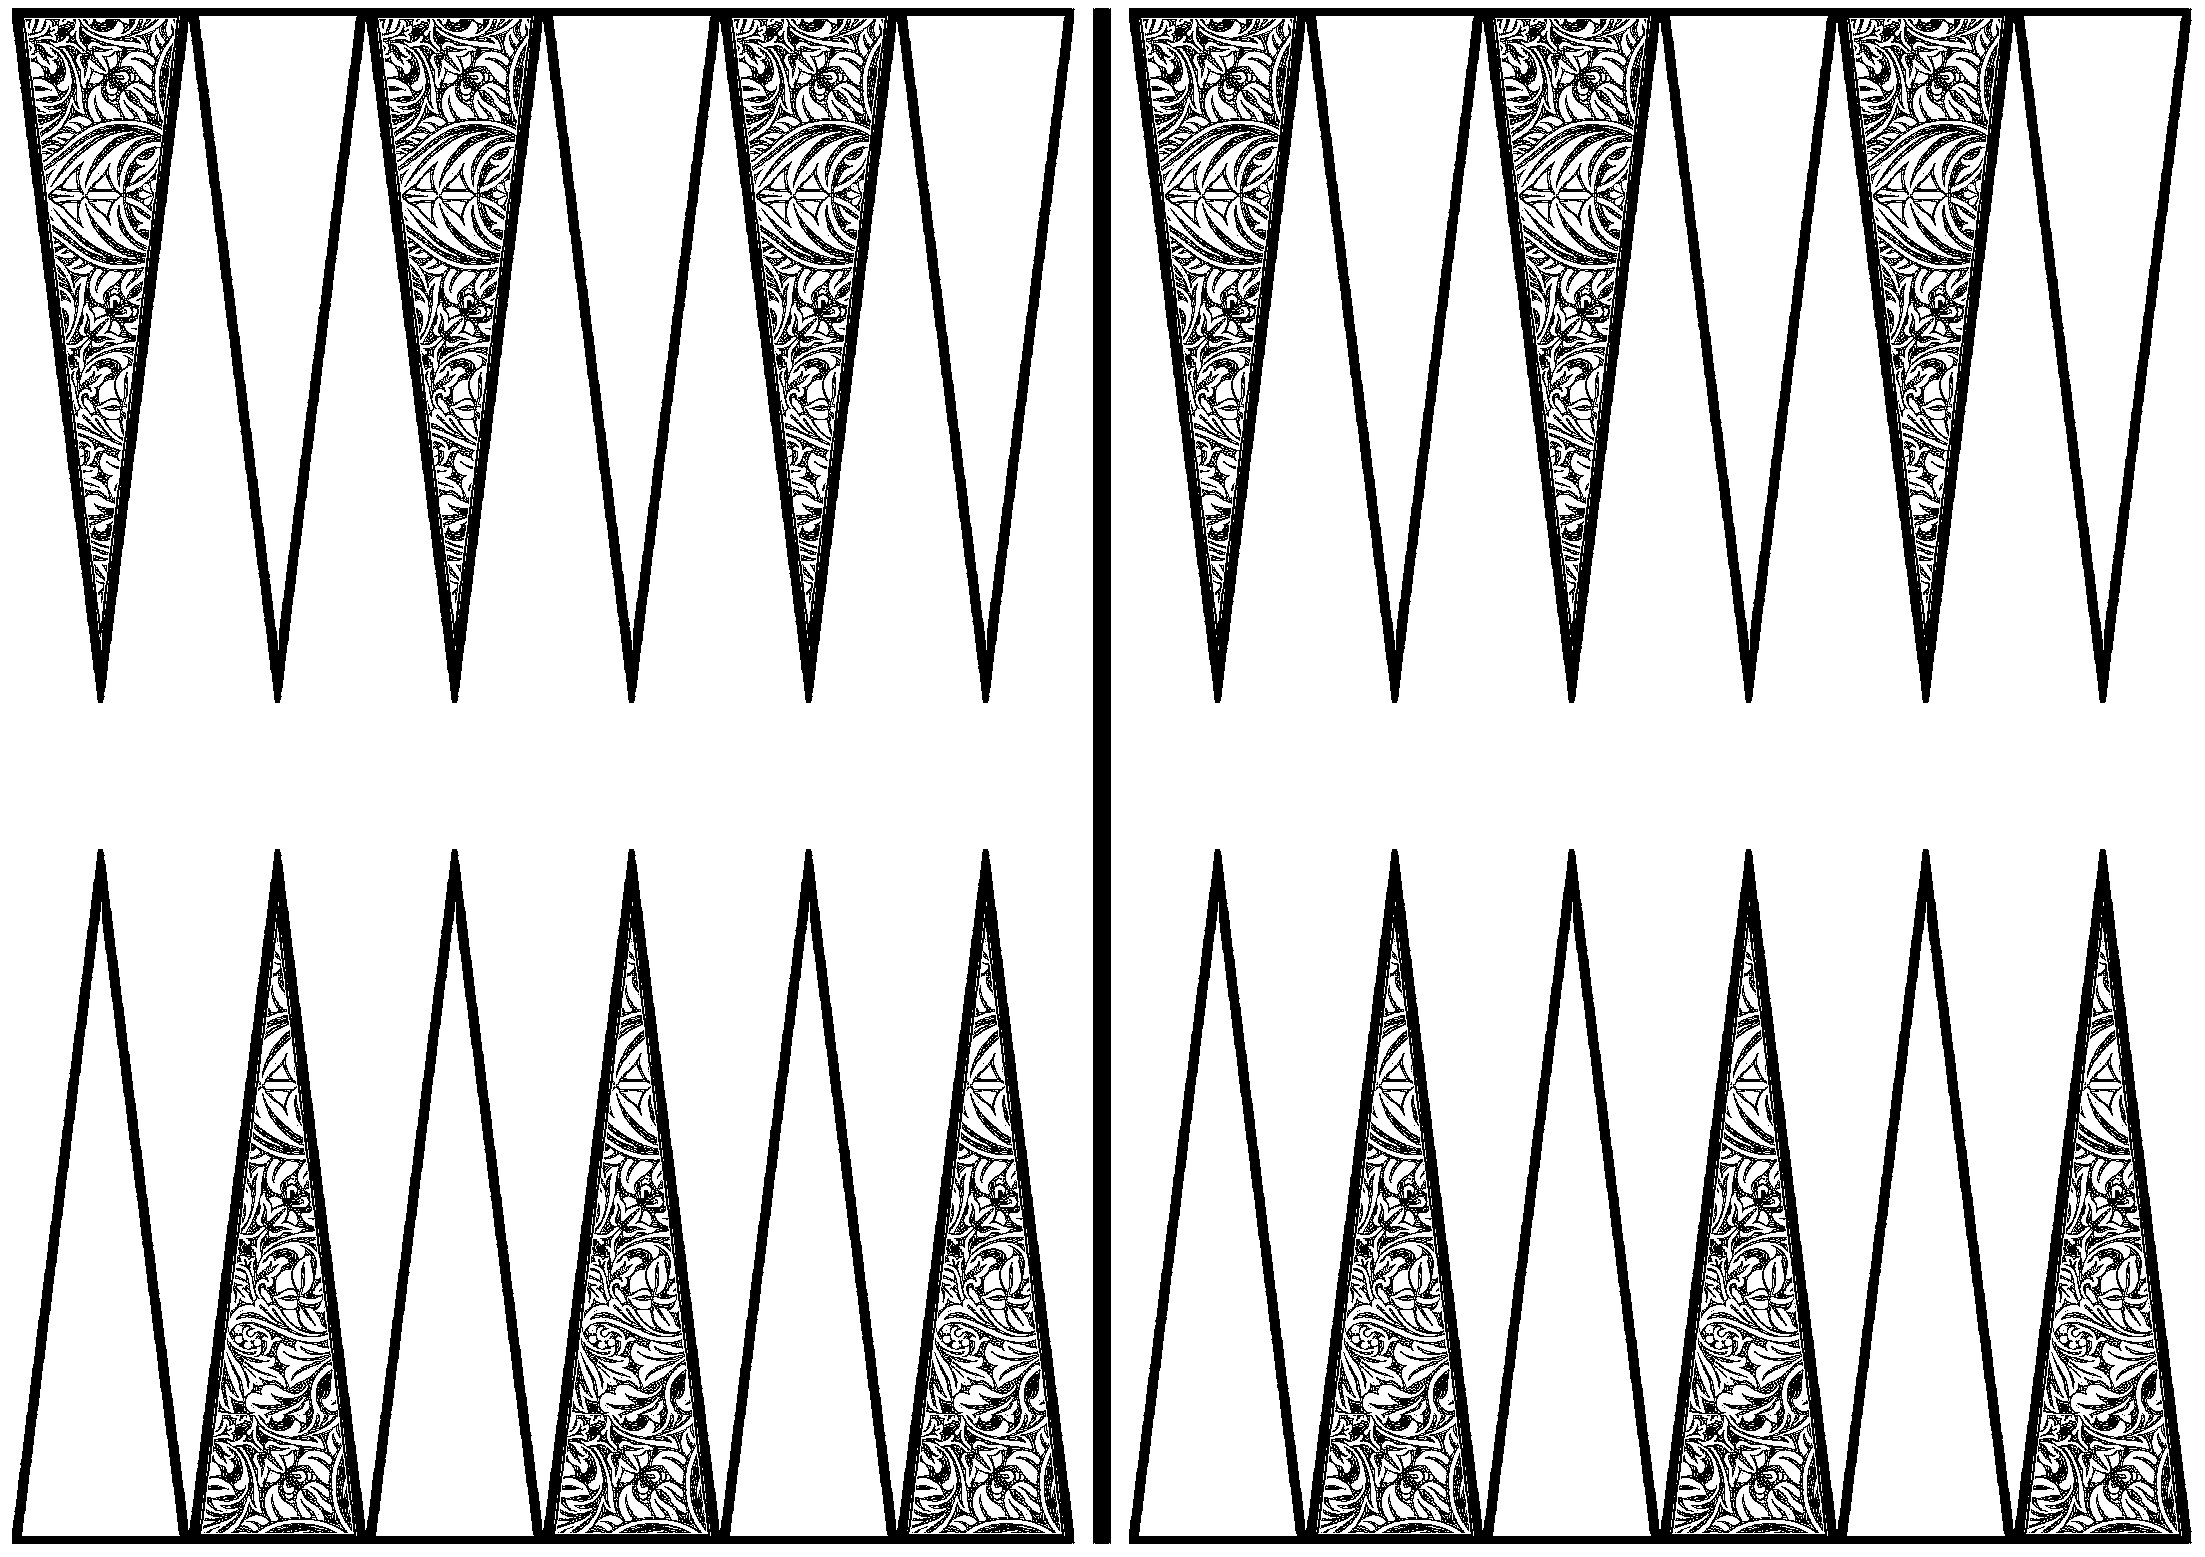
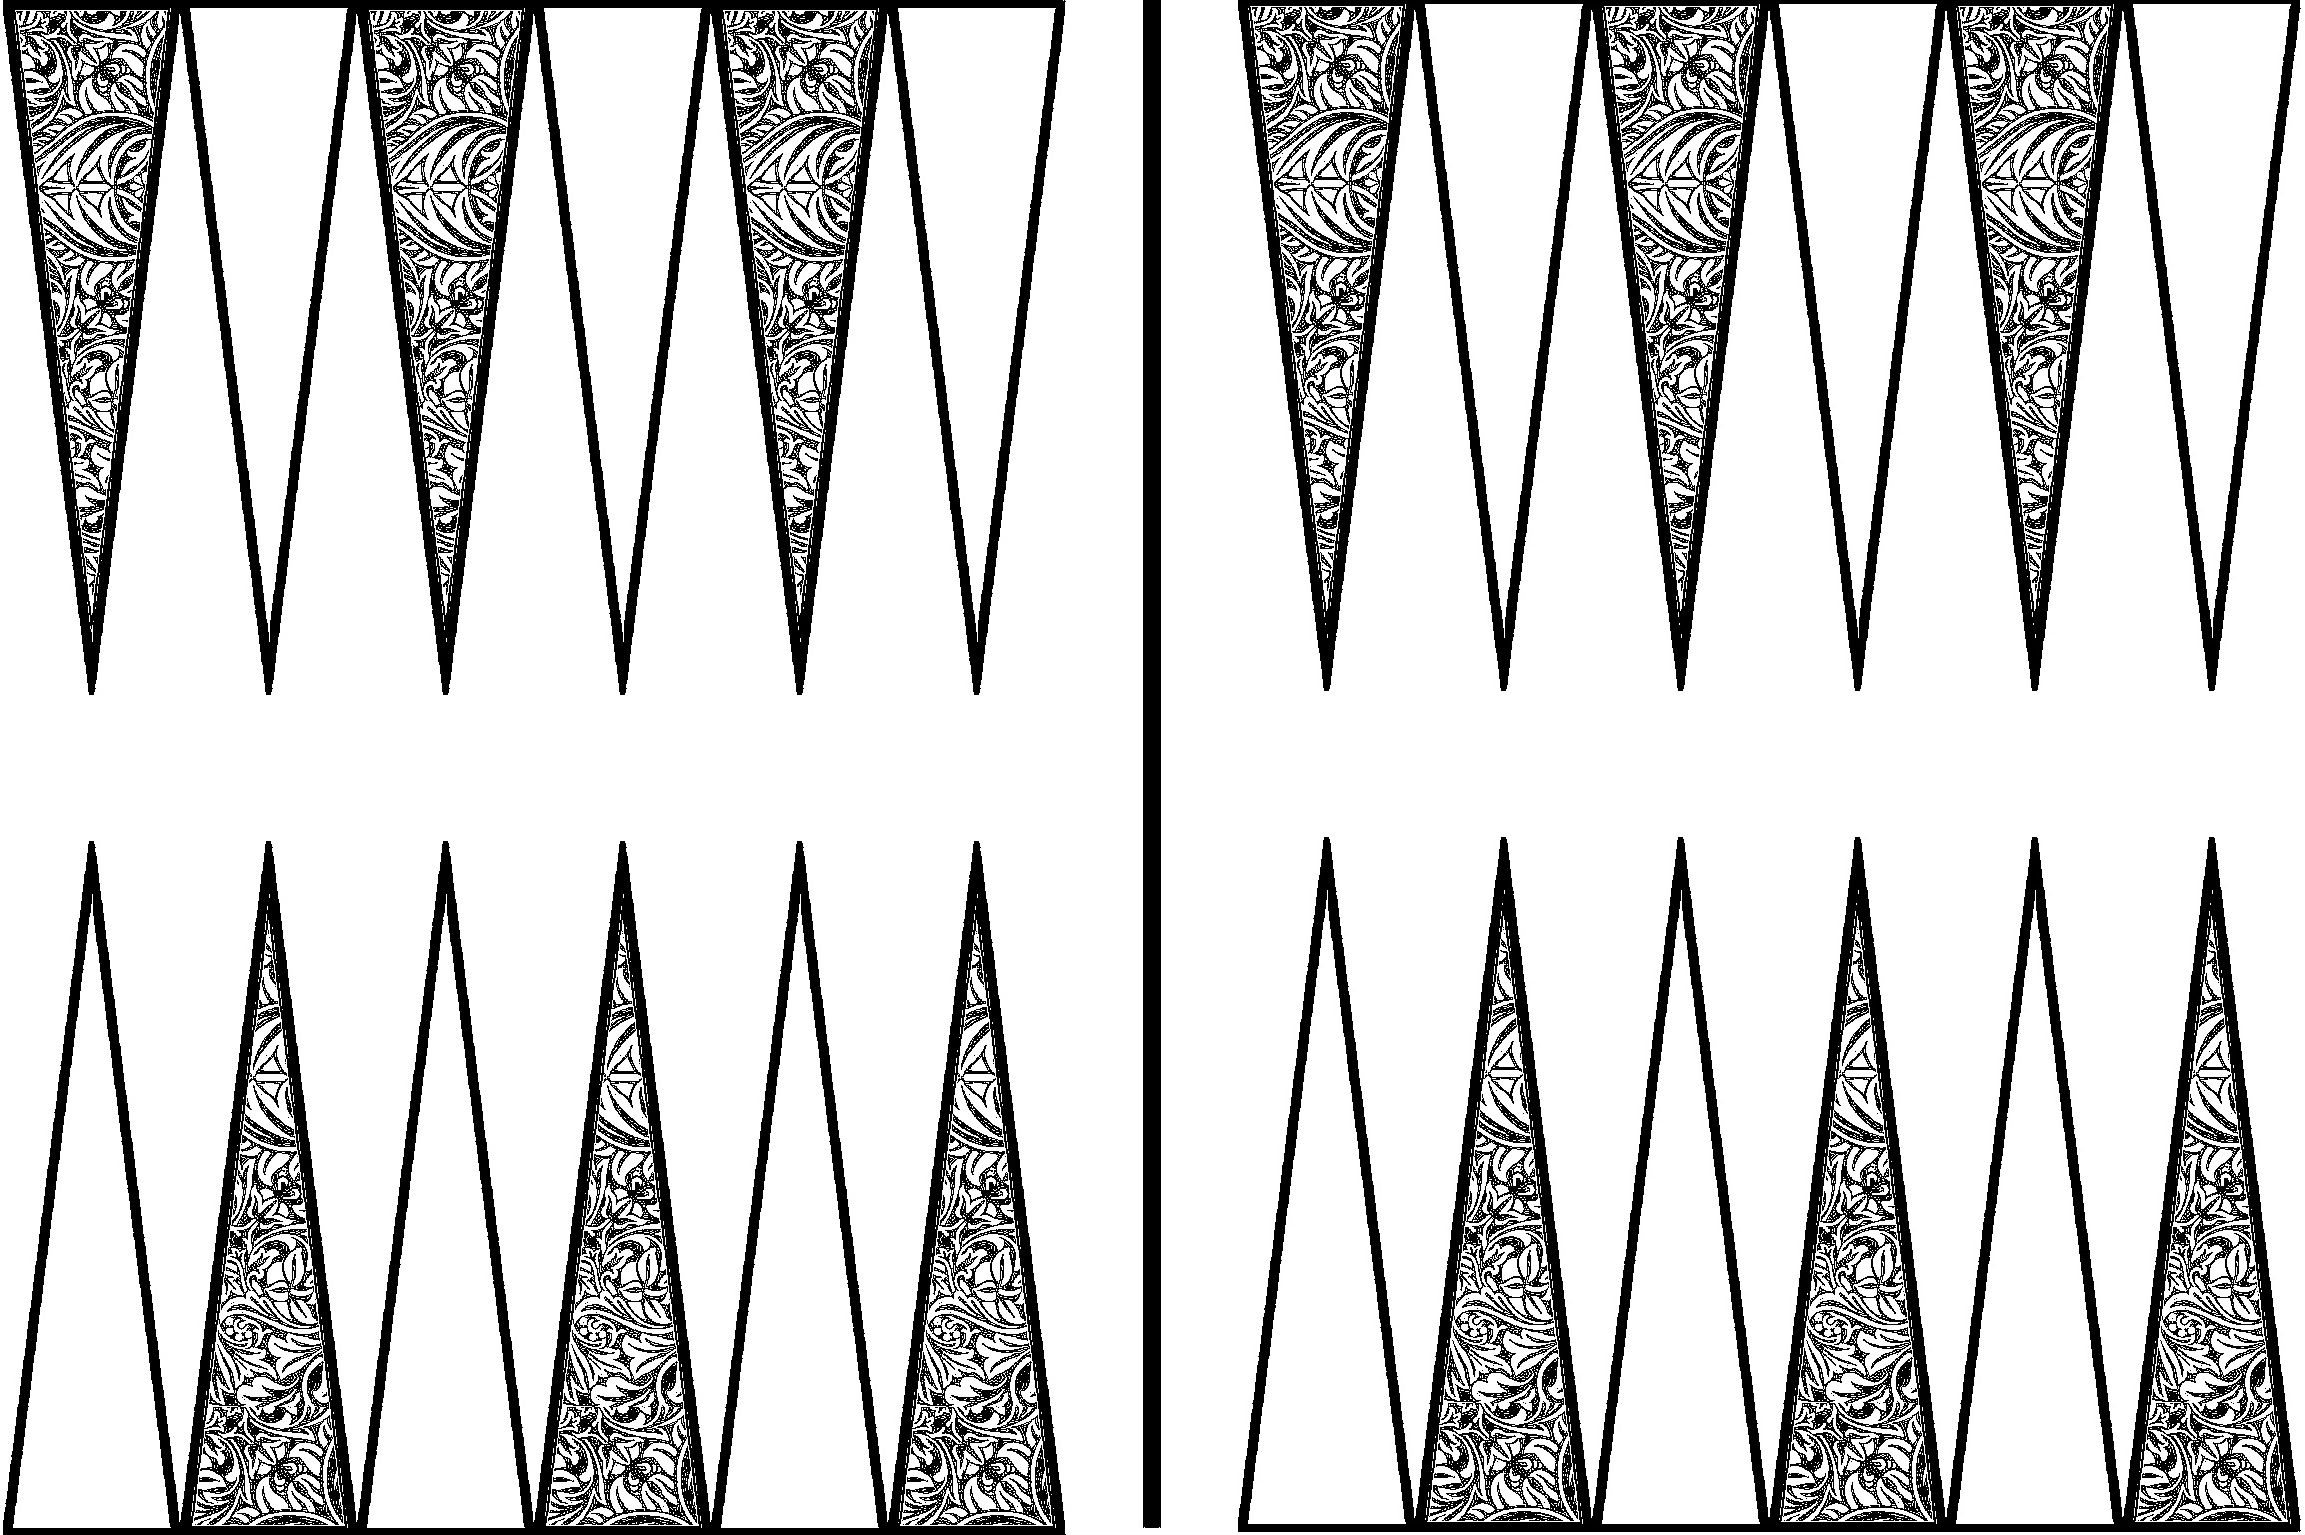
Added support in pieces stack

diff --git a/Chat.Client/Views/Screens/BackgammonScreen.xaml b/Chat.Client/Views/Screens/BackgammonScreen.xaml
@@ -15,8 +15,8 @@
             <RowDefinition Height="81*"/>
             <RowDefinition Height="40*"/>
             <RowDefinition Height="50*"/>
-            <RowDefinition Height="22*"/>
-            <RowDefinition Height="44*"/>
+            <RowDefinition Height="12*"/>
+            <RowDefinition Height="54*"/>
             <RowDefinition Height="79*"/>
             <RowDefinition Height="50*"/>
             <RowDefinition Height="117*"/>
@@ -24,37 +24,35 @@
             <RowDefinition Height="6*"/>
         </Grid.RowDefinitions>
         <Grid.ColumnDefinitions>
-            <ColumnDefinition Width="65*"/>
-            <ColumnDefinition Width="61*"/>
-            <ColumnDefinition Width="60*"/>
-            <ColumnDefinition Width="61*"/>
-            <ColumnDefinition Width="61*"/>
-            <ColumnDefinition Width="60*"/>
-            <ColumnDefinition Width="20*"/>
-            <ColumnDefinition Width="60*"/>
-            <ColumnDefinition Width="61*"/>
-            <ColumnDefinition Width="61*"/>
-            <ColumnDefinition Width="61*"/>
-            <ColumnDefinition Width="60*"/>
-            <ColumnDefinition Width="61*"/>
-            <ColumnDefinition Width="5*"/>
-            <ColumnDefinition Width="8*"/>
-            <ColumnDefinition Width="300*"/>
+            <ColumnDefinition Width="52*"/>
+            <ColumnDefinition Width="53*"/>
+            <ColumnDefinition Width="52*"/>
+            <ColumnDefinition Width="52*"/>
+            <ColumnDefinition Width="52*"/>
+            <ColumnDefinition Width="52*"/>
+            <ColumnDefinition Width="52*"/>
+            <ColumnDefinition Width="52*"/>
+            <ColumnDefinition Width="51*"/>
+            <ColumnDefinition Width="52*"/>
+            <ColumnDefinition Width="52*"/>
+            <ColumnDefinition Width="52*"/>
+            <ColumnDefinition Width="54*"/>
+            <ColumnDefinition Width="54*"/>
+            <ColumnDefinition Width="320*"/>
         </Grid.ColumnDefinitions>
-        <Image Source="/Images/Backgammon_board.jpg" Grid.Column="0" Stretch="Fill" Grid.ColumnSpan="14" Grid.RowSpan="14"/>
-        <Separator Grid.Column="14" Grid.Row="0" Style="{StaticResource {x:Static ToolBar.SeparatorStyleKey}}" Grid.RowSpan="14"/>
-        <TextBlock Text="{Binding PlayerA}" Grid.Column="15" Grid.Row="1" FontFamily="Buxton Sketch" HorizontalAlignment="Center" FontSize="30"/>
-        <TextBlock Text="Vs." Grid.Column="15" Grid.Row="2" FontFamily="Buxton Sketch" HorizontalAlignment="Center" FontSize="30" Margin="123,0"/>
-        <TextBlock Text="{Binding PlayerB}" Grid.Column="15" Grid.Row="3" FontFamily="Buxton Sketch" HorizontalAlignment="Center" FontSize="30"/>
-        <Button Content="Roll the dice" Grid.Column="15" Grid.Row="6" FontFamily="Buxton Sketch" HorizontalAlignment="Center" FontSize="30" Width="262" Margin="10,0.231,10,21.707" Grid.RowSpan="2" />
-        <TextBlock Text="Chat:" Grid.Column="15" Grid.Row="8" FontFamily="Buxton Sketch" HorizontalAlignment="Center" FontSize="30"/>
-        <ContentControl Name="chat_cc" Grid.Column="15" Grid.Row="9" Grid.RowSpan="7"/>
-        
-        <!--#region culomns-->
+        <Image Source="/Images/Backgammon_board.jpg" Grid.Column="0" Stretch="Fill" Grid.ColumnSpan="13" Grid.RowSpan="14" Margin="0,0,0,0.16"/>
+        <Separator Grid.Column="13" Grid.Row="0" Style="{StaticResource {x:Static ToolBar.SeparatorStyleKey}}" Grid.RowSpan="14" Margin="2,2,2,2.16"/>
+        <TextBlock Text="{Binding PlayerA}" Grid.Column="14" Grid.Row="1" FontFamily="Buxton Sketch" HorizontalAlignment="Center" FontSize="30" Margin="134,0" Width="34"/>
+        <TextBlock Text="Vs." Grid.Column="14" Grid.Row="2" FontFamily="Buxton Sketch" HorizontalAlignment="Center" FontSize="30" Margin="118,0,116,0" Width="34"/>
+        <TextBlock Text="{Binding PlayerB}" Grid.Column="14" Grid.Row="3" FontFamily="Buxton Sketch" HorizontalAlignment="Center" FontSize="30" Margin="134,0" Width="34"/>
+        <Button Content="Roll the dice" Grid.Column="14" Grid.Row="6" FontFamily="Buxton Sketch" HorizontalAlignment="Center" FontSize="30" Width="200" Margin="34,0.231,34,11.735" Grid.RowSpan="2" />
+        <TextBlock Text="Chat:" Grid.Column="14" Grid.Row="8" FontFamily="Buxton Sketch" HorizontalAlignment="Center" FontSize="30" Margin="106,0.265,106,78.51" Grid.RowSpan="2" Width="56" />
+        <ContentControl Name="chat_cc" Grid.Column="14" Grid.Row="9" Grid.RowSpan="5" Margin="0,0.265,0,0.16"/>
 
-        
-        
+        <!--#region Columns-->
 
-        <!--#endregion culomns-->
+        <ListView Grid.Column="12" Grid.Row="0" Grid.RowSpan="13" VerticalAlignment="Top" ItemsSource="{Binding Colors[23]}" ItemTemplate="{StaticResource PiecesTemplate}" Background="Transparent" BorderBrush="Transparent" HorizontalAlignment="Center"/>
+
+        <!--#endregion Columns-->
     </Grid>
 </UserControl>

diff --git a/Chat.Client/Views/Windows/ChatWindow.xaml b/Chat.Client/Views/Windows/ChatWindow.xaml
@@ -6,7 +6,8 @@
         xmlns:local="clr-namespace:Chat.UI.Views.Screens"
         xmlns:controls="clr-namespace:Chat.UI.Views.Screens"
         mc:Ignorable="d" Height="500" Width="500"
-        Closed="Window_Closed">
+        Closed="Window_Closed"
+        ResizeMode="NoResize">
     <Grid>
         <ContentControl Name="chatControl_cc" Grid.Column="0" Grid.Row="0"/>
     </Grid>

diff --git a/Chat.Client/ResourceDictionary.xaml b/Chat.Client/ResourceDictionary.xaml
@@ -72,6 +72,12 @@
 
     <!--#endregion Chat List View Style-->
 
-    
+    <!--#region Pieces Template-->
+
+    <DataTemplate x:Key="PiecesTemplate" DataType="{x:Type ListViewItem}">
+        <Ellipse Fill="{Binding}"  Height="40" Width="40" Stroke="Black" IsEnabled="False"/>
+    </DataTemplate>
+
+    <!--#endregion Pieces Template-->
 
 </ResourceDictionary>

diff --git a/Chat.Client/VM/BackgammonVM.cs b/Chat.Client/VM/BackgammonVM.cs
@@ -1,4 +1,5 @@
 using Backgammon.Logic;
+using Chat.Logic;
 using System;
 using System.Collections.Generic;
 using System.ComponentModel;
@@ -12,9 +13,11 @@ namespace Chat.Client.VM
     {
         #region Properties and Fields
 
-        BackgammonGame game;
+        const int NUM_OF_STACKS = 24;
 
-        public List<string> Color { get; set; }
+        private BackgammonGame _game;
+
+        public List<string>[] Stacks { get; set; }
 
         public event PropertyChangedEventHandler PropertyChanged;
 
@@ -22,9 +25,11 @@ namespace Chat.Client.VM
 
         public string PlayerB { get; set; }
 
+        public Guid? Session { get; set; }
+
 
         #endregion Properties and Fields
-
+        
 
         #region C'tor
 
@@ -34,19 +39,36 @@ namespace Chat.Client.VM
             PlayerB = playerB;
             PropertyChanged?.Invoke(null, new PropertyChangedEventArgs("PlayerA"));
             PropertyChanged?.Invoke(null, new PropertyChangedEventArgs("PlayerB"));
-
-            game = new BackgammonGame();
-            //UpdateBoard();
+            Stacks = new List<string>[NUM_OF_STACKS];
+            for (int i = 0; i < NUM_OF_STACKS; i++)
+            {
+                Stacks[i] = new List<string>();
+            }
+            _game = new BackgammonGame();
         }
 
 
         #endregion C'tor
 
-        #region Private Methods
-        private void UpdateBoard()
+        #region Public Methods
+
+        public void StartChat()
         {
-            throw new NotImplementedException();
+            Session = ChatClient.AddSession(PlayerA, PlayerB);
         }
+
+        public void AddColor(string col, int index)
+        {
+            Stacks[index].Add(col);
+
+            PropertyChanged?.Invoke(null, new PropertyChangedEventArgs("Colors"));
+        }
+
+        #endregion Public Methods
+
+
+        #region Private Methods
+
 
         #endregion Private Methods
     }

diff --git a/Chat.Client/Views/Windows/ChatWindow.xaml.cs b/Chat.Client/Views/Windows/ChatWindow.xaml.cs
@@ -23,6 +23,9 @@ namespace Chat.UI.Views.Screens
     {
         MainVM _mainVM;
 
+
+        BackgammonVM gameVM;
+
         string _contact;
 
         public bool IsGame { get; set; }
@@ -36,13 +39,13 @@ namespace Chat.UI.Views.Screens
             _mainVM = MainVM.Instance;
             _contact = contact;
             IsGame = isGame;
-            
+
             if (IsGame)
             {
                 this.Title = $"{_mainVM.UserName} - Game with {_contact}";
-                this.Width = 1000;
+                this.Width = 1200;
                 this.Height = 700;
-                BackgammonVM gameVM = new BackgammonVM(_mainVM.UserName, contact);
+                gameVM = new BackgammonVM(_mainVM.UserName, contact);
                 chatControl_cc.Content = new BackgammonScreen(gameVM);
             }
             else
@@ -53,7 +56,11 @@ namespace Chat.UI.Views.Screens
         }
         private void Window_Closed(object sender, EventArgs e)
         {
-            WindowClosedEvent?.Invoke(this, new ChatEventArgs() { contact = _contact });
+            WindowClosedEvent?.Invoke(this, new ChatEventArgs()
+            {
+                contact = _contact,
+                Session = (Guid)gameVM.Session
+            });
         }
 
         internal void CloseChat()
@@ -65,5 +72,8 @@ namespace Chat.UI.Views.Screens
     public class ChatEventArgs : EventArgs
     {
         public string contact { get; set; }
+
+        public Guid Session { get; set; }
+
     }
 }

diff --git a/Chat.Client/Views/Screens/ContactScreen.xaml.cs b/Chat.Client/Views/Screens/ContactScreen.xaml.cs
@@ -149,6 +149,11 @@ namespace Chat.UI.Views.Screens
         private void Chat_WindowClosedEvent(object sender, EventArgs e)
         {
             string contact = ((ChatEventArgs)e).contact;
+            Guid session= ((ChatEventArgs)e).Session;
+            if (session!=null)
+            {
+                ChatClient.EndGame(session);
+            }
             _openChatsList.Remove(contact);
         }
 
@@ -327,7 +332,8 @@ namespace Chat.UI.Views.Screens
                 //Chat window open
                 if (!window.IsGame)
                 {
-                    Chat_WindowClosedEvent(null, new ChatEventArgs() { contact = contact });
+                    window.Close();
+                    _openChatsList.Remove(contact);
                     OpenChatWindow(contact, true);
                 }
 

diff --git a/Chat.Client/Views/Screens/BackgammonScreen.xaml.cs b/Chat.Client/Views/Screens/BackgammonScreen.xaml.cs
@@ -21,15 +21,25 @@ namespace Chat.UI.Views.Screens
     /// </summary>
     public partial class BackgammonScreen : UserControl
     {
-        BackgammonVM _vm;
+        public BackgammonVM VM { get; set; }
+         
+
+        StackPanel[] _stacks;
 
         public BackgammonScreen(BackgammonVM vm)
         {
             InitializeComponent();
-            _vm = vm;
-            this.DataContext = _vm;
-            chat_cc.Content = new ChatScreen(_vm.PlayerA, _vm.PlayerB);
+            VM = vm;
+            this.DataContext = VM;
+            chat_cc.Content = new ChatScreen(VM.PlayerA, VM.PlayerB);
+            VM.AddColor("White",23);
+            VM.AddColor("Black", 23);
+
         }
 
+        #region Private UI Methods
+
+
+        #endregion Private UI Methods
     }
 }

diff --git a/Chat.Service/ChatService.cs b/Chat.Service/ChatService.cs
@@ -248,8 +248,19 @@ namespace Service
         }
 
         public void EndGame(Guid session)
+        //Ends a game session with userName
         {
-            throw new NotImplementedException();
+            try
+            {
+                _sessions.Remove(session);
+                _sessionDetails.Remove(session);
+                Report($"Game {session} ended", LogLevel.Information);
+            }
+            catch (Exception e)
+            {
+                Report($"Game {session} was not ended", LogLevel.Exception);
+                Report(e.Message, LogLevel.Exception);
+            }
         }
 
         public bool RestartGame(Guid session)

diff --git a/Chat.Logic/ChatClient.cs b/Chat.Logic/ChatClient.cs
@@ -256,6 +256,11 @@ namespace Chat.Logic
             }
         }
 
+        public static void EndGame(Guid session)
+        {
+            proxy.EndGame(session);
+        }
+
         #endregion IBackgammon Client Implementation
 
         #region Private Methods
